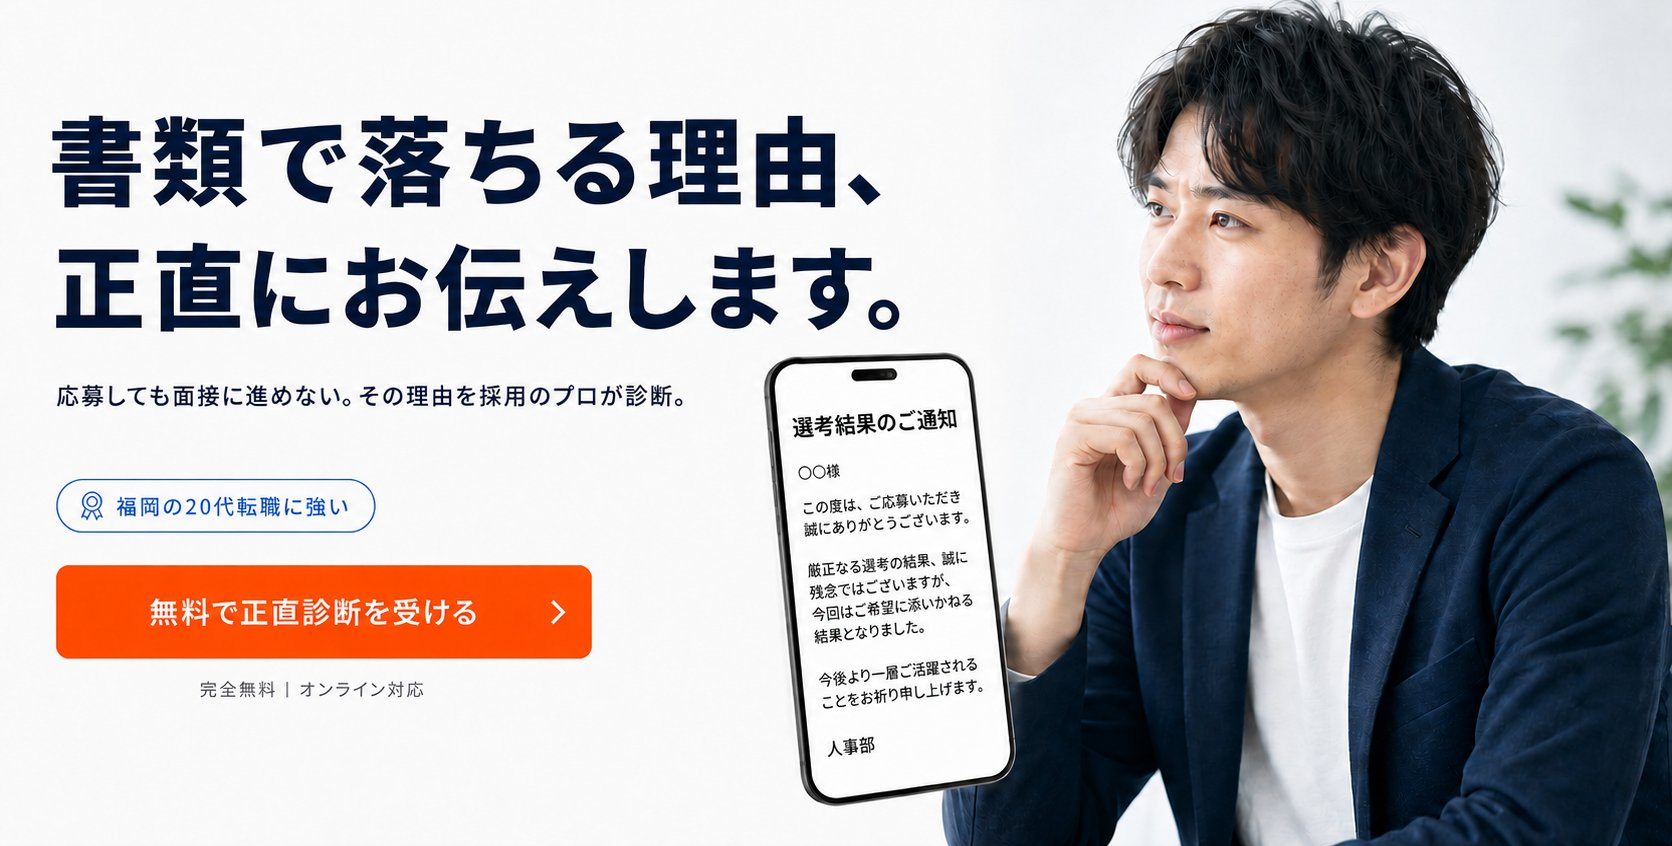
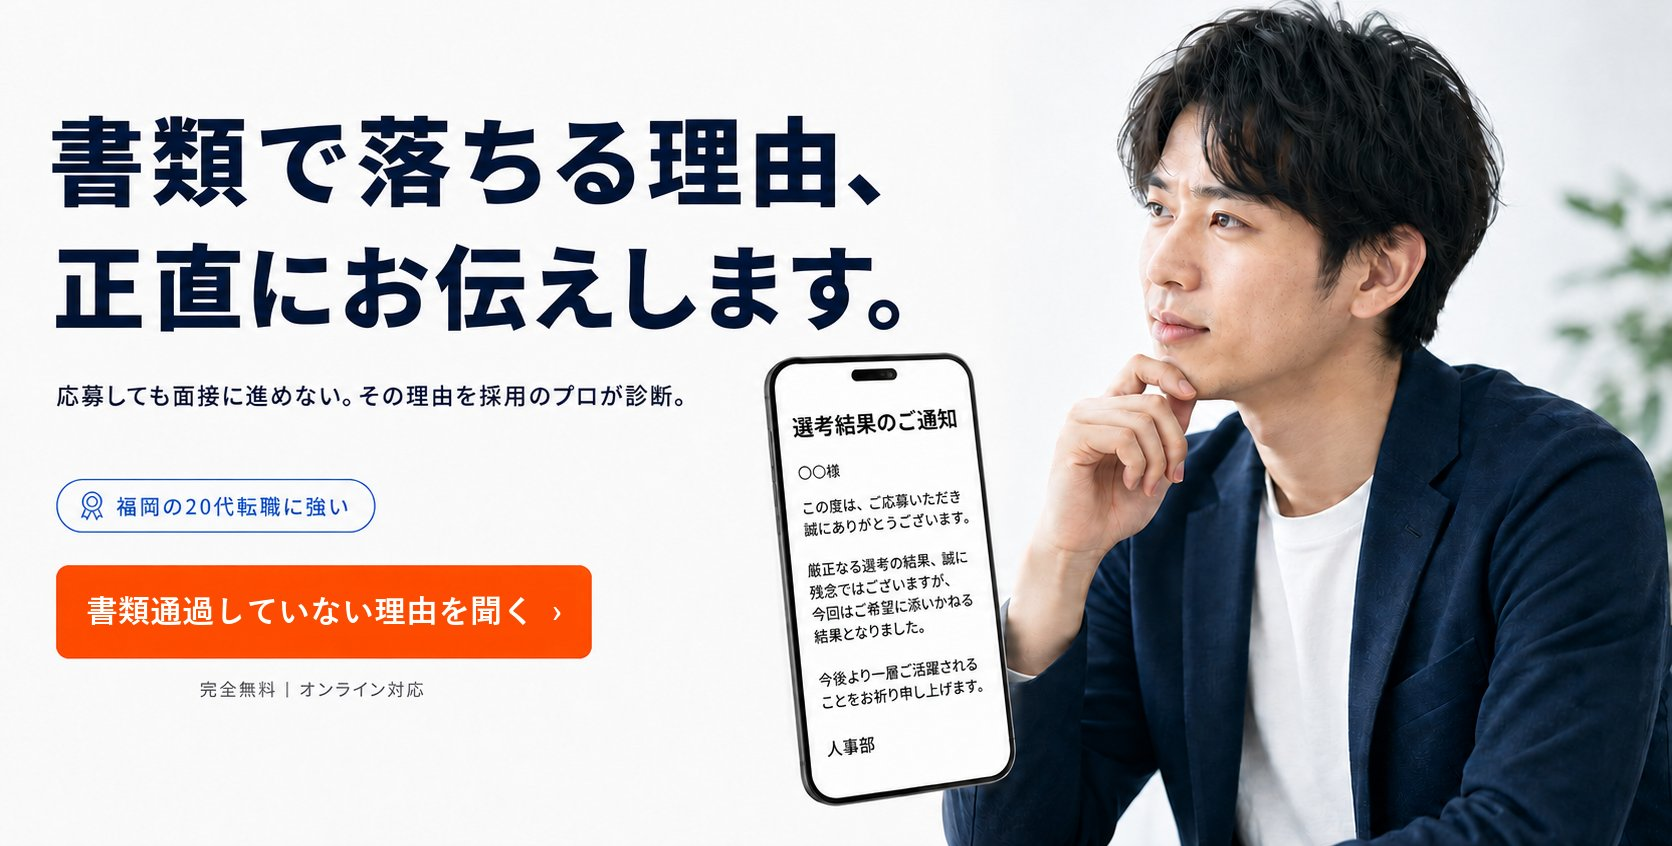
Update CTA copy across the page and edit hero image button text
- Hero image: replace baked-in button text with "書類通過していない理由を聞く"
  (edited pixels directly since the hero is a flat reference image; overlay
  aria-label updated to match)
- Case-study section CTA: "無料で書類を見てもらう" -> "無料で相談してみる"
- Flow heading: "利用はかんたんです。" -> "利用は簡単です。"
- Flow STEP2/STEP3 labels updated
- Reduced spacing above the YouTube video block

Changed region(s): [[0.0311, 0.7069, 0.3421, 0.7376]]

diff --git a/shorui-shindan/index.html b/shorui-shindan/index.html
@@ -306,7 +306,7 @@
   .staff-profile .staff-role{font-size:12.5px;color:var(--muted);margin:2px 0 0;}
   .staff-profile .staff-desc{font-size:13px;color:var(--muted);margin:6px 0 0;}
 
-  .video-block{margin-top:40px;max-width:640px;}
+  .video-block{margin-top:16px;max-width:640px;}
   .video-facade{
     position:relative;display:block;width:100%;padding:0;margin:0;border:none;
     border-radius:var(--radius-md);overflow:hidden;cursor:pointer;aspect-ratio:16/9;
@@ -456,7 +456,7 @@
         <source media="(min-width:960px)" srcset="assets/hero-full-desktop.jpg">
         <img src="assets/hero-full-mobile.jpg" alt="" width="941" height="1577" loading="eager">
       </picture>
-      <a href="#application" class="hero-cta-overlay" data-cta="hero" data-cta-location="hero" aria-label="無料で書類を見てもらう"></a>
+      <a href="#application" class="hero-cta-overlay" data-cta="hero" data-cta-location="hero" aria-label="書類通過していない理由を聞く"></a>
     </div>
   </div>
 </section>
@@ -629,7 +629,7 @@
       <p class="case-note">これは診断後に考えられる選択肢を示した支援イメージです。転職や入社の結果を保証するものではありません。</p>
       <p class="case-verified-note" id="case-verified-note" hidden>個人が特定されないよう一部編集しています。</p>
       <div class="cta-center" style="justify-content:flex-start;">
-        <a href="#application" class="btn btn-primary" data-cta="case" data-cta-location="case">無料で書類を見てもらう</a>
+        <a href="#application" class="btn btn-primary" data-cta="case" data-cta-location="case">無料で相談してみる</a>
       </div>
     </div>
   </div>
@@ -678,12 +678,12 @@
   <div class="wrap">
     <div class="section-head">
       <span class="kicker">利用の流れ</span>
-      <h2 class="section-title">利用はかんたんです。</h2>
+      <h2 class="section-title">利用は簡単です。</h2>
     </div>
     <div class="flow-grid">
       <div class="flow-item"><div class="step">STEP1</div><h3>無料診断に申し込む</h3><p>下記のボタンよりお申し込みください</p></div>
-      <div class="flow-item"><div class="step">STEP2</div><h3>履歴書・職務経歴書を送る</h3><p id="flow-formats">PDF・写真・スクリーンショットでも送付可能</p></div>
-      <div class="flow-item"><div class="step">STEP3</div><h3>診断結果を聞く</h3><p id="flow-method">オンラインで診断結果をお伝えします</p></div>
+      <div class="flow-item"><div class="step">STEP2</div><h3>LINEで履歴書、職務経歴書を送る</h3><p id="flow-formats">PDF・写真・スクリーンショットでも送付可能</p></div>
+      <div class="flow-item"><div class="step">STEP3</div><h3>オンライン面談を日程調整する</h3><p id="flow-method">オンラインで診断結果をお伝えします</p></div>
       <div class="flow-item"><div class="step">STEP4</div><h3>希望者のみ、次へ進む</h3><p>書類修正や求人紹介に進むかは選べます</p></div>
     </div>
     <div class="flow-notes">
